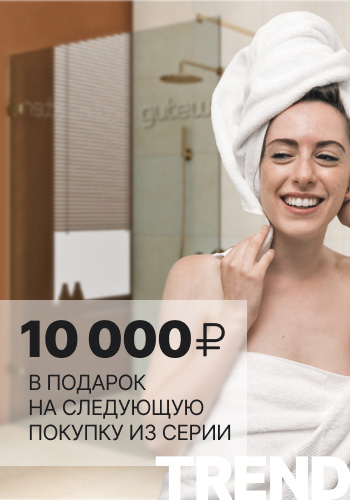
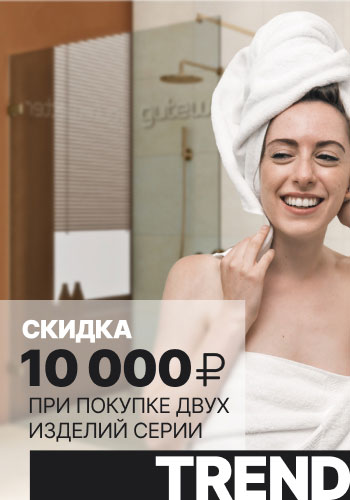
Index References carousel correction + Action pictures changes

Changed region(s): [[0.0, 0.63, 1.0, 1.0], [0.6857, 0.6, 0.7143, 0.69]]

diff --git a/_PROJECT/BUILD/index.html b/_PROJECT/BUILD/index.html
@@ -1608,40 +1608,45 @@
 			<div class="reference__item_hdr">Гостиница «Рэдиссон Коллекшен Москва»</div>
 			<div class="reference__item_note">Москва. 2024 год.</div>
 		</a>
-		<a href="#" target="_blank" class="reference__item slider__item" title="Reference">
+		<a href="#" target="_blank" class="reference__item slider__item">
 			<div class="reference__item_img"><img src="img/l-ref2.svg" alt="Swissôtel Красные Холмы"></div>
 			<div class="reference__item_hdr">Swissôtel Красные Холмы.</div>
 			<div class="reference__item_note">Москва. 2024 год.</div>
 		</a>
-		<a href="#" target="_blank" class="reference__item slider__item" title="Reference">
+		<a href="#" target="_blank" class="reference__item slider__item">
 			<div class="reference__item_img"><img src="img/l-ref3.svg" alt="Жилой квартал PRIME PARK"></div>
 			<div class="reference__item_hdr">Жилой квартал PRIME&nbsp;PARK</div>
 			<div class="reference__item_note">Москва. 2024 год.</div>
 		</a>
-		<a href="#" target="_blank" class="reference__item slider__item" title="Reference">
+		<a href="#" target="_blank" class="reference__item slider__item">
 			<div class="reference__item_img"><img src="img/l-ref4.svg" alt="VALO Hotel City"></div>
 			<div class="reference__item_hdr">VALO Hotel City</div>
 			<div class="reference__item_note">Санкт-Петербург. 2022 год.</div>
 		</a>
-		<a href="#" target="_blank" class="reference__item slider__item" title="Reference">
+		<a href="#" target="_blank" class="reference__item slider__item">
 			<div class="reference__item_img"><img src="img/l-ref5.svg" alt="Сеть отелей Marins Hotels"></div>
 			<div class="reference__item_hdr">Сеть отелей Marins&nbsp;Hotels</div>
 			<div class="reference__item_note">2022&mdash;2024 года.</div>
 		</a>
-		<a href="#" target="_blank" class="reference__item slider__item" title="Reference">
+		<a href="#" target="_blank" class="reference__item slider__item">
 			<div class="reference__item_img"><img src="img/l-ref6.svg" alt="Отель «Ялта-Интурист»"></div>
 			<div class="reference__item_hdr">Отель «Ялта-Интурист»</div>
 			<div class="reference__item_note">Ялта. 2024 год.</div>
 		</a>
-		<a href="#" target="_blank" class="reference__item slider__item" title="Reference">
+		<a href="#" target="_blank" class="reference__item slider__item">
 			<div class="reference__item_img"><img src="img/l-ref7.svg" alt="Клинический госпиталь Лапино"></div>
 			<div class="reference__item_hdr">Клинический госпиталь Лапино</div>
 			<div class="reference__item_note">Лапино. 2024 год.</div>
 		</a>
-		<a href="#" target="_blank" class="reference__item slider__item" title="Reference">
-			<div class="reference__item_img"><img src="img/l-ref8.svg" alt="руппа компаний «Мать и дитя»"></div>
-			<div class="reference__item_hdr">Группа компаний «Мать и дитя»</div>
+		<a href="#" target="_blank" class="reference__item slider__item">
+			<div class="reference__item_img"><img src="img/l-ref8.svg" alt="Группа компаний «Мать и дитя»"></div>
+			<div class="reference__item_hdr">Группа компаний<br>«Мать и дитя»</div>
 			<div class="reference__item_note">2024 год.</div>
+		</a>
+		<a href="#" target="_blank" class="reference__item slider__item">
+			<div class="reference__item_img"><img src="img/l-ref9.svg" alt="Элитный загородный клуб «Soho Сountry Club»"></div>
+			<div class="reference__item_hdr">Элитный загородный клуб «Soho Сountry Club»</div>
+			<div class="reference__item_note">Подмосковье.2024 год.</div>
 		</a>
 	</div>
 

diff --git a/_PROJECT/SRC/index.html b/_PROJECT/SRC/index.html
@@ -1083,40 +1083,45 @@
 			<div class="reference__item_hdr">Гостиница «Рэдиссон Коллекшен Москва»</div>
 			<div class="reference__item_note">Москва. 2024 год.</div>
 		</a>
-		<a href="#" target="_blank" class="reference__item slider__item" title="Reference">
+		<a href="#" target="_blank" class="reference__item slider__item">
 			<div class="reference__item_img"><img src="img/l-ref2.svg" alt="Swissôtel Красные Холмы"></div>
 			<div class="reference__item_hdr">Swissôtel Красные Холмы.</div>
 			<div class="reference__item_note">Москва. 2024 год.</div>
 		</a>
-		<a href="#" target="_blank" class="reference__item slider__item" title="Reference">
+		<a href="#" target="_blank" class="reference__item slider__item">
 			<div class="reference__item_img"><img src="img/l-ref3.svg" alt="Жилой квартал PRIME PARK"></div>
 			<div class="reference__item_hdr">Жилой квартал PRIME&nbsp;PARK</div>
 			<div class="reference__item_note">Москва. 2024 год.</div>
 		</a>
-		<a href="#" target="_blank" class="reference__item slider__item" title="Reference">
+		<a href="#" target="_blank" class="reference__item slider__item">
 			<div class="reference__item_img"><img src="img/l-ref4.svg" alt="VALO Hotel City"></div>
 			<div class="reference__item_hdr">VALO Hotel City</div>
 			<div class="reference__item_note">Санкт-Петербург. 2022 год.</div>
 		</a>
-		<a href="#" target="_blank" class="reference__item slider__item" title="Reference">
+		<a href="#" target="_blank" class="reference__item slider__item">
 			<div class="reference__item_img"><img src="img/l-ref5.svg" alt="Сеть отелей Marins Hotels"></div>
 			<div class="reference__item_hdr">Сеть отелей Marins&nbsp;Hotels</div>
 			<div class="reference__item_note">2022&mdash;2024 года.</div>
 		</a>
-		<a href="#" target="_blank" class="reference__item slider__item" title="Reference">
+		<a href="#" target="_blank" class="reference__item slider__item">
 			<div class="reference__item_img"><img src="img/l-ref6.svg" alt="Отель «Ялта-Интурист»"></div>
 			<div class="reference__item_hdr">Отель «Ялта-Интурист»</div>
 			<div class="reference__item_note">Ялта. 2024 год.</div>
 		</a>
-		<a href="#" target="_blank" class="reference__item slider__item" title="Reference">
+		<a href="#" target="_blank" class="reference__item slider__item">
 			<div class="reference__item_img"><img src="img/l-ref7.svg" alt="Клинический госпиталь Лапино"></div>
 			<div class="reference__item_hdr">Клинический госпиталь Лапино</div>
 			<div class="reference__item_note">Лапино. 2024 год.</div>
 		</a>
-		<a href="#" target="_blank" class="reference__item slider__item" title="Reference">
-			<div class="reference__item_img"><img src="img/l-ref8.svg" alt="руппа компаний «Мать и дитя»"></div>
-			<div class="reference__item_hdr">Группа компаний «Мать и дитя»</div>
+		<a href="#" target="_blank" class="reference__item slider__item">
+			<div class="reference__item_img"><img src="img/l-ref8.svg" alt="Группа компаний «Мать и дитя»"></div>
+			<div class="reference__item_hdr">Группа компаний<br>«Мать и дитя»</div>
 			<div class="reference__item_note">2024 год.</div>
+		</a>
+		<a href="#" target="_blank" class="reference__item slider__item">
+			<div class="reference__item_img"><img src="img/l-ref9.svg" alt="Элитный загородный клуб «Soho Сountry Club»"></div>
+			<div class="reference__item_hdr">Элитный загородный клуб «Soho Сountry Club»</div>
+			<div class="reference__item_note">Подмосковье.2024 год.</div>
 		</a>
 	</div>
 

diff --git a/_PROJECT/BUILD/js/main.js b/_PROJECT/BUILD/js/main.js
@@ -173,17 +173,16 @@ $('#id_idx-actions').slick({
 
 $('#id_idx-reference').slick({
   slidesToShow: 4,
-  slidesToScroll: 4,
+  slidesToScroll: 1,
   dots: true,
   infinite: true,
   autoplay: true,
-  autoplaySpeed: 8000,
+  autoplaySpeed: 3000,
   responsive: [
     {
       breakpoint: 780,
       settings: {
         slidesToShow: 3,
-        slidesToScroll: 3,
         arrows: false
       }
     },
@@ -191,7 +190,6 @@ $('#id_idx-reference').slick({
       breakpoint: 480,
       settings: {
         slidesToShow: 2,
-        slidesToScroll: 2,
         arrows: false,
         centerMode: true,
         centerPadding: '0px'
@@ -201,7 +199,6 @@ $('#id_idx-reference').slick({
       breakpoint: 420,
       settings: {
         slidesToShow: 1,
-        slidesToScroll: 1,
         arrows: false,
         centerMode: true,
         centerPadding: '0px'

diff --git a/_PROJECT/SRC/js/base/function.js b/_PROJECT/SRC/js/base/function.js
@@ -170,17 +170,16 @@ $('#id_idx-actions').slick({
 
 $('#id_idx-reference').slick({
   slidesToShow: 4,
-  slidesToScroll: 4,
+  slidesToScroll: 1,
   dots: true,
   infinite: true,
   autoplay: true,
-  autoplaySpeed: 8000,
+  autoplaySpeed: 3000,
   responsive: [
     {
       breakpoint: 780,
       settings: {
         slidesToShow: 3,
-        slidesToScroll: 3,
         arrows: false
       }
     },
@@ -188,7 +187,6 @@ $('#id_idx-reference').slick({
       breakpoint: 480,
       settings: {
         slidesToShow: 2,
-        slidesToScroll: 2,
         arrows: false,
         centerMode: true,
         centerPadding: '0px'
@@ -198,7 +196,6 @@ $('#id_idx-reference').slick({
       breakpoint: 420,
       settings: {
         slidesToShow: 1,
-        slidesToScroll: 1,
         arrows: false,
         centerMode: true,
         centerPadding: '0px'

diff --git a/_PROJECT/BUILD/references.html b/_PROJECT/BUILD/references.html
@@ -646,7 +646,7 @@
 
 		<div class="block-reference" id="id_reference3">
 			<div class="block-reference__collage">
-				<img src="img/references/vitra/ref-cl.jpg" alt="Soho Сountry Club. Элитный жилой квартал, Москва">
+				<img src="img/references/vitra/ref-cl.jpg" alt="Soho Сountry Club. Элитный загородный клуб, Подмосковье">
 			</div>
 			<div class="block-reference__refplate">
 				<div class="refplate-pics" data-fancybox="gallery-vitra" data-caption="Soho Сountry Club. Элитный загородный клуб, Подмосковье" data-src="img/references/vitra/ref-pic1.jpg"  title="Нажмите для увеличенного просмотра">

diff --git a/_PROJECT/SRC/references.html b/_PROJECT/SRC/references.html
@@ -121,7 +121,7 @@
 
 		<div class="block-reference" id="id_reference3">
 			<div class="block-reference__collage">
-				<img src="img/references/vitra/ref-cl.jpg" alt="Soho Сountry Club. Элитный жилой квартал, Москва">
+				<img src="img/references/vitra/ref-cl.jpg" alt="Soho Сountry Club. Элитный загородный клуб, Подмосковье">
 			</div>
 			<div class="block-reference__refplate">
 				<div class="refplate-pics" data-fancybox="gallery-vitra" data-caption="Soho Сountry Club. Элитный загородный клуб, Подмосковье" data-src="img/references/vitra/ref-pic1.jpg"  title="Нажмите для увеличенного просмотра">
